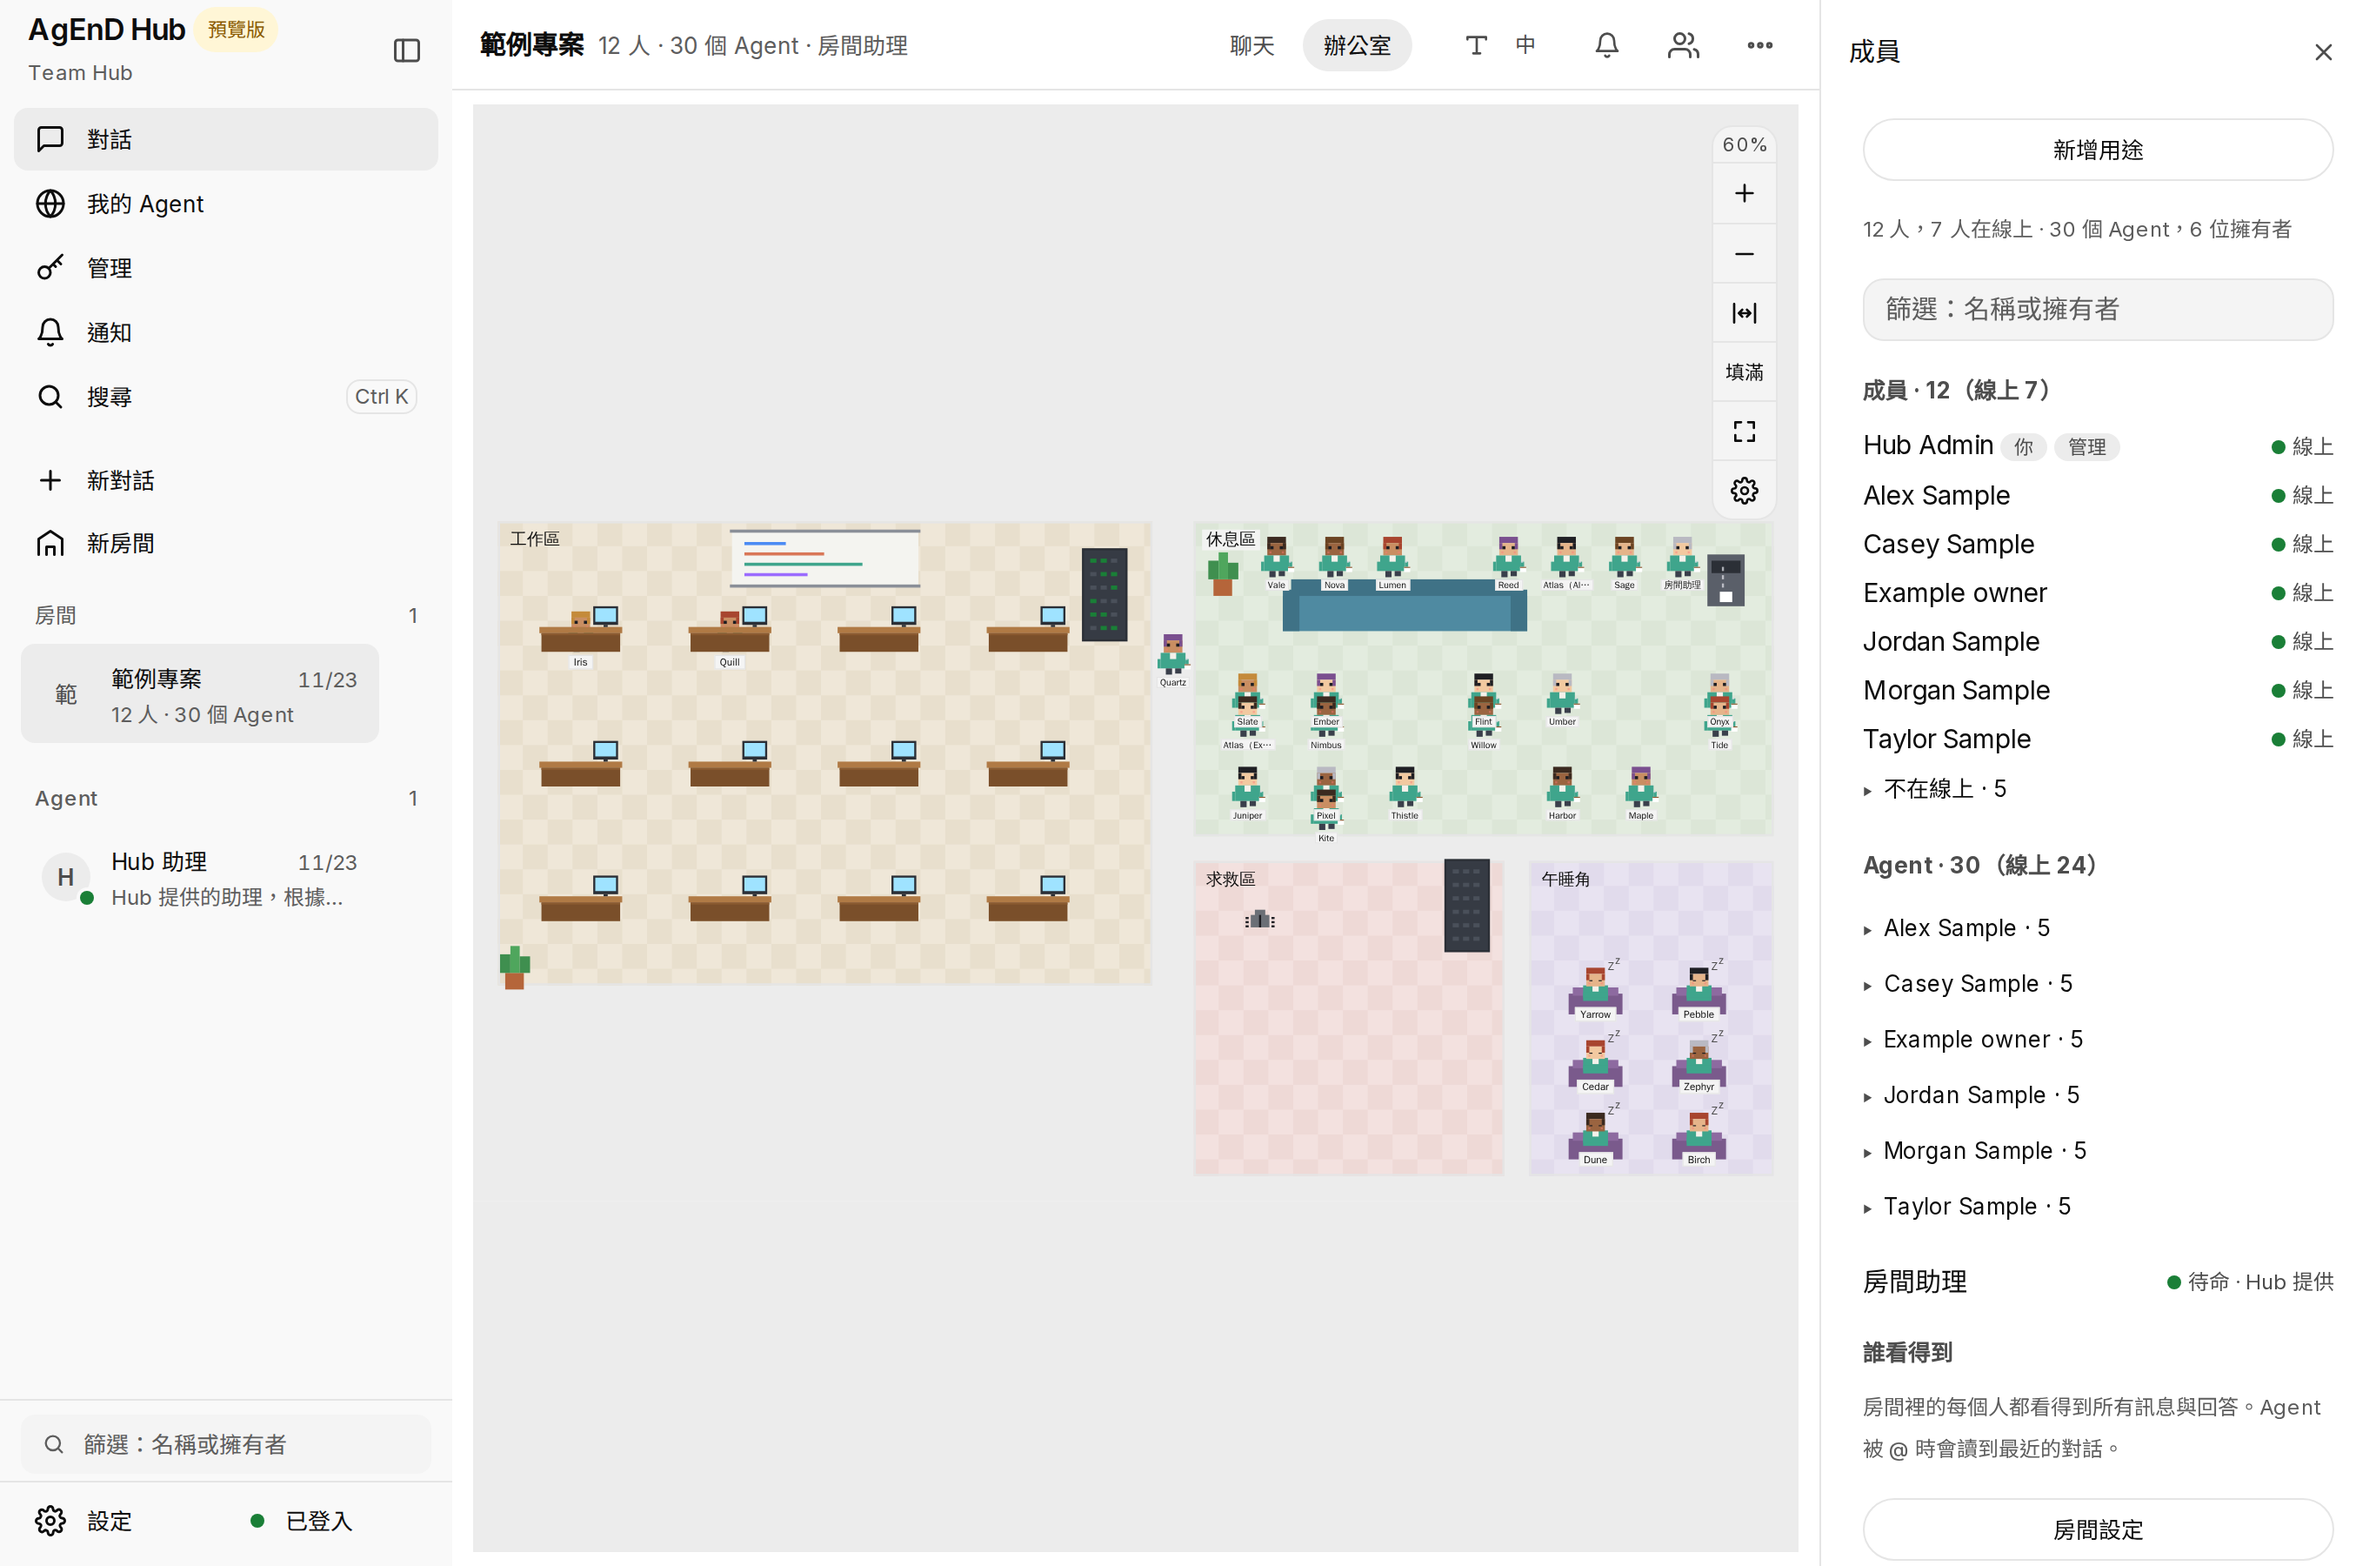
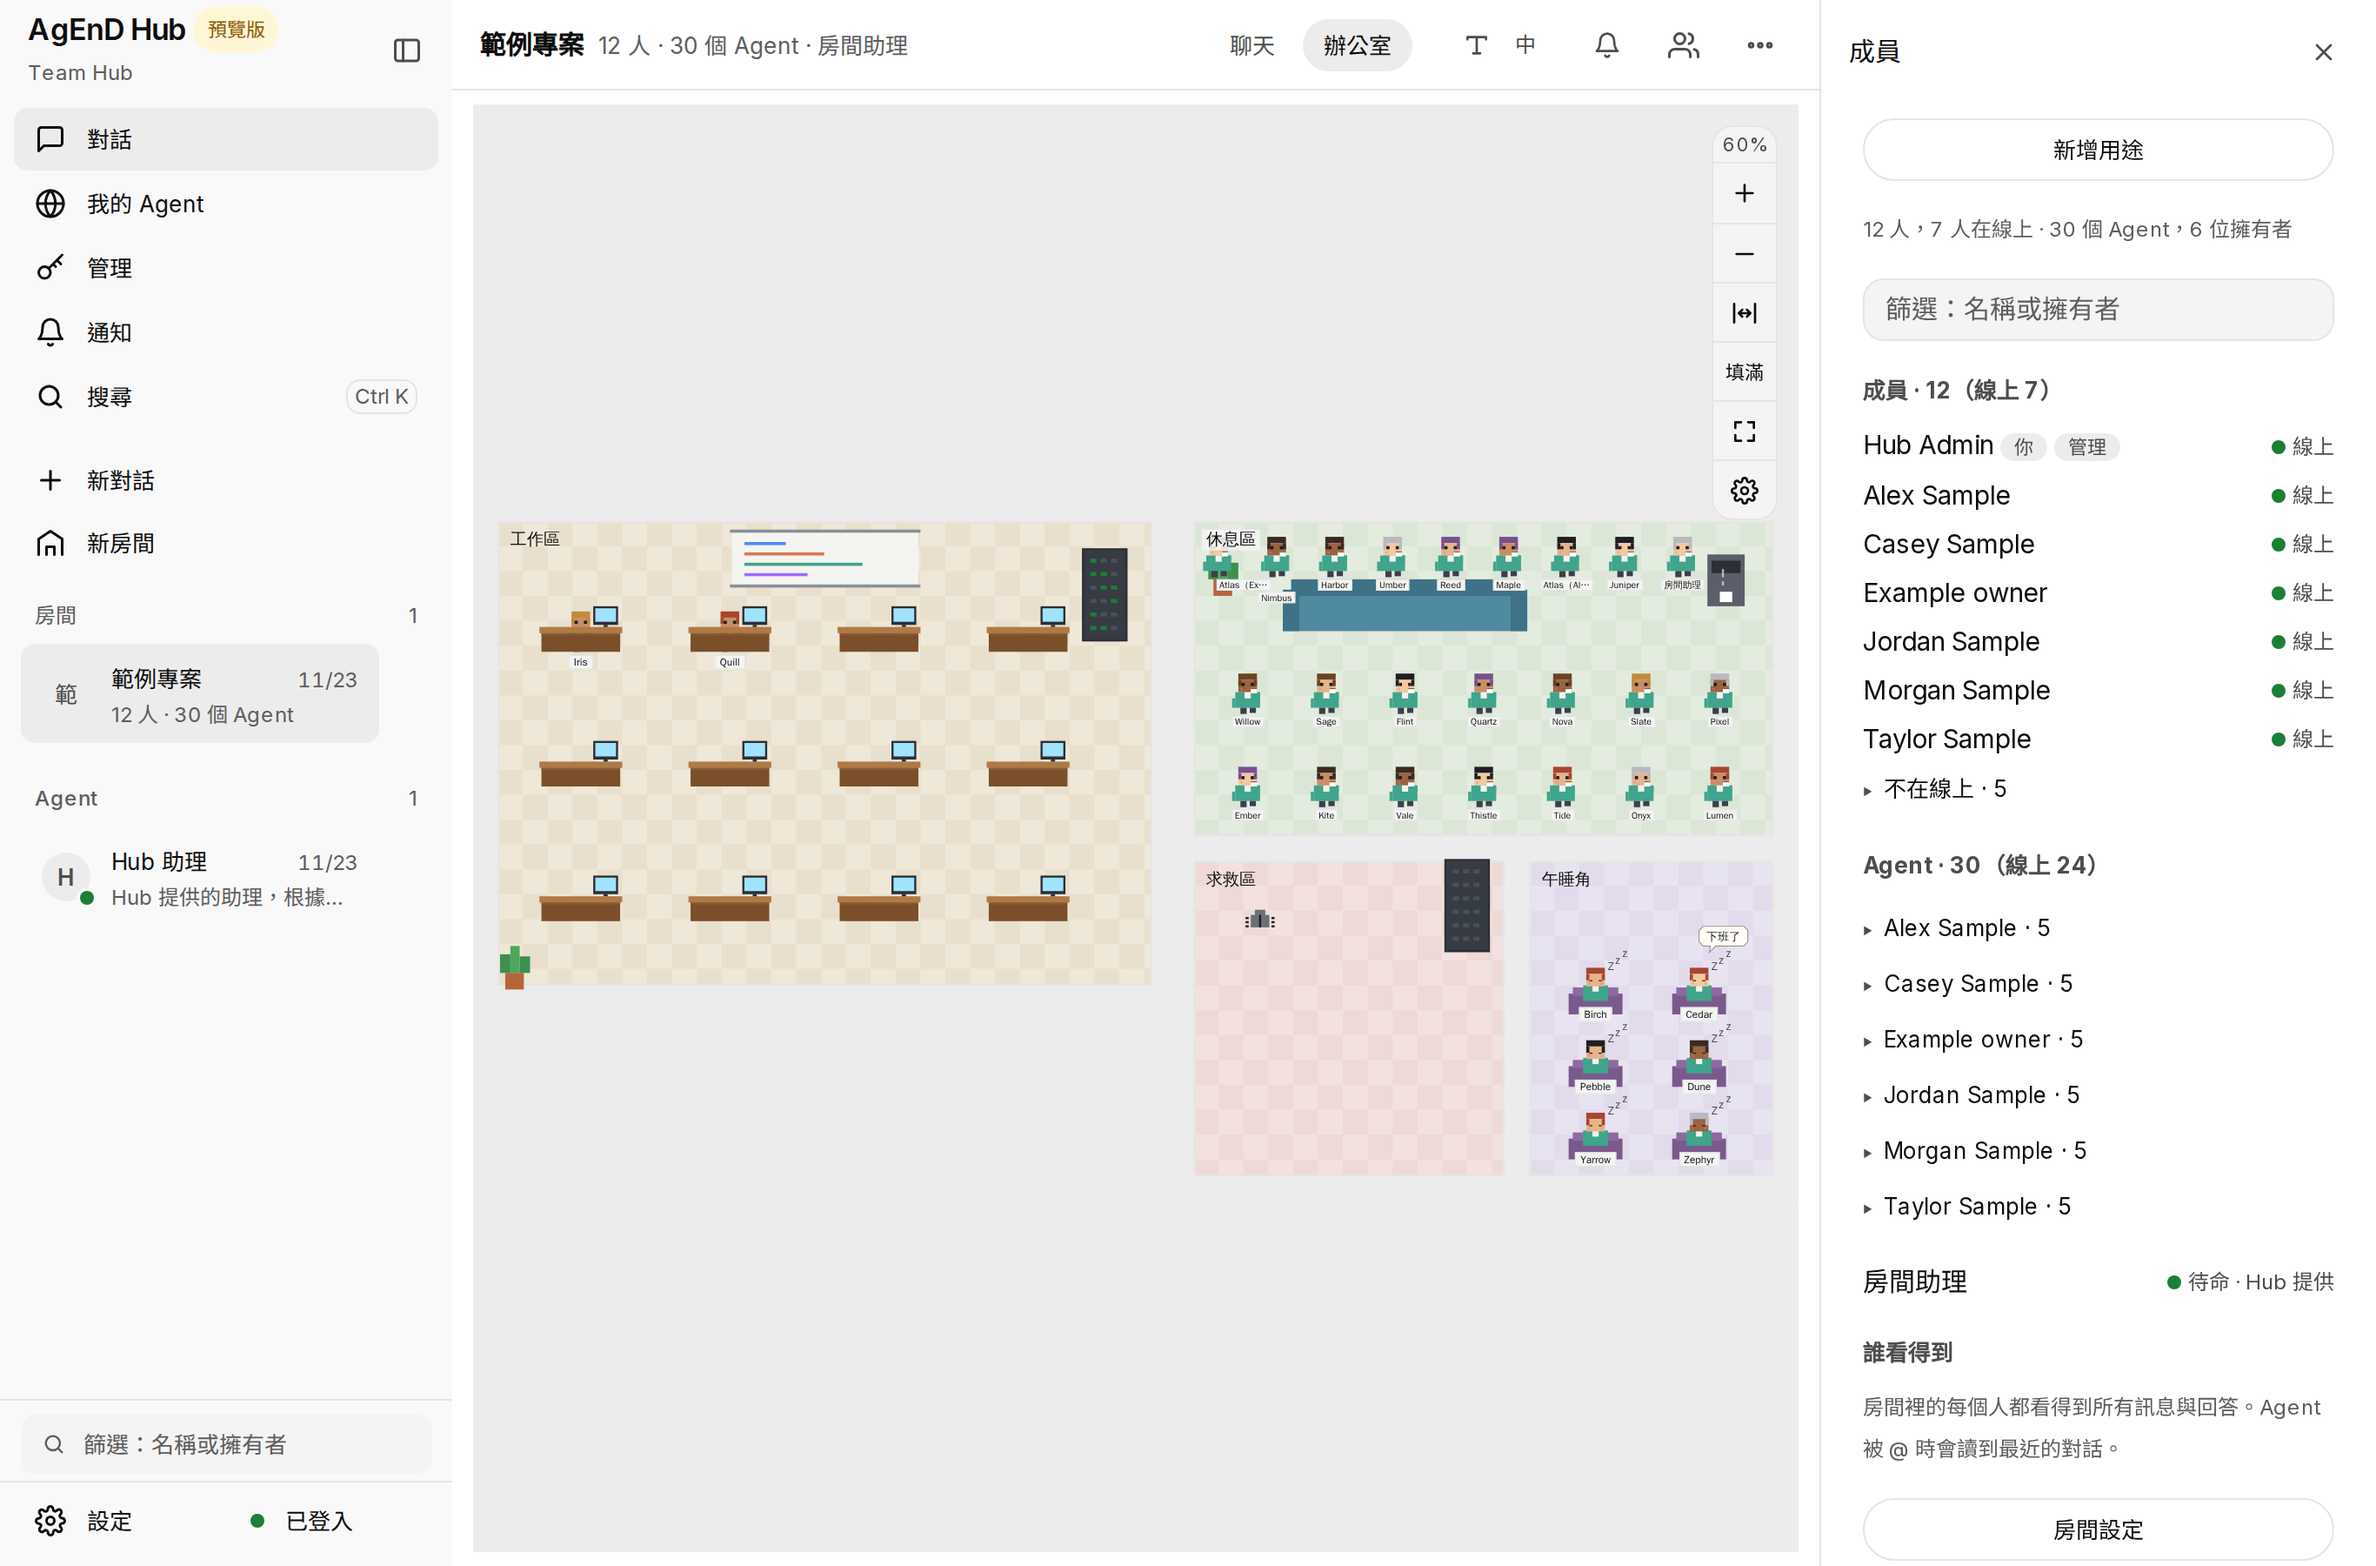
docs(evidence): walk-in after and the final scene re-taken at 33a82c46 (#4376 capture check)

diff --git a/docs/evidence/office-labels-m3539/README.md b/docs/evidence/office-labels-m3539/README.md
@@ -3,13 +3,13 @@
 These are captures of the real Hub (HTTPS and SQLite, through the Hub test rig) and its real room office, headless Chromium, taken from two commits:
 
 - **before**: #4370's head `ce5f6556`;
-- **after**: this branch at `a3fc48de`, which already has the help-desk rule (`e2458506`) and the fresh-placement fix. The walk-in pair and the zoomed pair are from `5530e2e5`, which adds the minimap to what tags keep clear of, slides a tag sideways past such a control instead of dropping it, and keeps bubbles off the area names. Their before is the same `ce5f6556`. Later commits change nothing in these scenes. `bc82159b` only matters for a style whose calling states fall back to a default or first area, and the Studio styles name theirs.
+- **after**: this branch at `a3fc48de`, which already has the help-desk rule (`e2458506`) and the fresh-placement fix. The zoomed pair is from `5530e2e5`, which adds the minimap to what tags keep clear of, slides a tag sideways past such a control instead of dropping it, and keeps bubbles off the area names. The walk-in pair's after is from `33a82c46`, which adds the stroll rules below and keeps a tag within its area's sides. Both pairs' before is the same `ce5f6556`. Later commits change nothing in these scenes. `bc82159b` only matters for a style whose calling states fall back to a default or first area, and the Studio styles name theirs.
 
 The room has 12 people and 30 agents of 6 owners, plus the room assistant, all with made-up names. Two agents are working, one is paused, and one owner's Fleet is offline, so its 5 agents are stopped and go to the nap corner. Each shot is taken 3 s after the office opens, with normal motion (idle agents stroll).
 
 | What | Captures |
 |---|---|
-| **The final scene:** Studio (large) in normal motion, taken with #4370's own capture script at `b0b881a4`, the same view as #4370's `desk-zh-TW-light-r1b-5-office-large.png` (its before). Every name is separate, nobody stands on anybody, nothing is under the zoom control | `desk-zh-TW-light-after-r1b-5-office-large.png` |
+| **The final scene:** Studio (large) in normal motion, taken with #4370's own capture script at `33a82c46`, the same view as #4370's `desk-zh-TW-light-r1b-5-office-large.png` (its before). Every name is separate, nobody stands on anybody, nothing is under the zoom control | `desk-zh-TW-light-after-r1b-5-office-large.png` |
 | **The same moment on both commits:** the first frame of the office, the page clock paused and stepped alike. In before, everyone walks in from the old style's seats and tags pile up: Yarrow/Zephyr and Birch/Pebble in Studio, 13 pairs in Studio (large). In after, everyone is in place, with no tag on another | `desk-zh-TW-light-{before,after}-studio-walkin.png`, `desk-zh-TW-light-{before,after}-studio-large-walkin.png` |
 | Studio, desktop | `desk-zh-TW-light-{before,after}-studio.png`, `desk-en-dark-{before,after}-studio.png` |
 | Studio (large), desktop | `desk-en-dark-{before,after}-studio-large.png` |
@@ -44,7 +44,8 @@ What changed:
   - People walking are tagged after everyone at their place, so a stroll no longer covers a seated person's name.
 - **An area's name a figure stands on** (休息區 under the crowd at the top of the Studio lounge) is written again over the people, on a plate of the page's surface.
 - **The idle never stroll or visit to the help desk.** Someone standing there reads as "needs you". These are the areas a style sends the calling to; strolls and visits elsewhere are unchanged (#3685).
-- **A stroll never ends on someone else.** It ends only where the figure stands clear of everyone (a seat in use, a visitor, another stroll), and its tag stays inside its area. Before, a row's aisle points sat just under its seats, so in a full room strollers stood on the seated, and the bottom row's tags spilled past the area's edge.
+- **A tag stays within the sides of its area.** A wide name at the large lounge's first column poked past its edge.
+- **A stroll never ends on someone else, nor in the hall.** It ends only inside an area (the hall between areas is narrower than a name tag), where the figure stands clear of everyone (a seat in use, a visitor, another stroll), and its tag stays inside the area. Before, a row's aisle points sat just under its seats, so in a full room strollers stood on the seated, and the bottom row's tags spilled past the area's edge.
 - **A new office or style places everyone at once**, stopping any walk under way, even one going to the same seat. Before, a room's office opened on the Studio's seats, then read its style, and everyone walked across. The asleep stood in the help desk for seconds, so 午睡角 6 had nobody drawn in it.
 
 Not changed:
